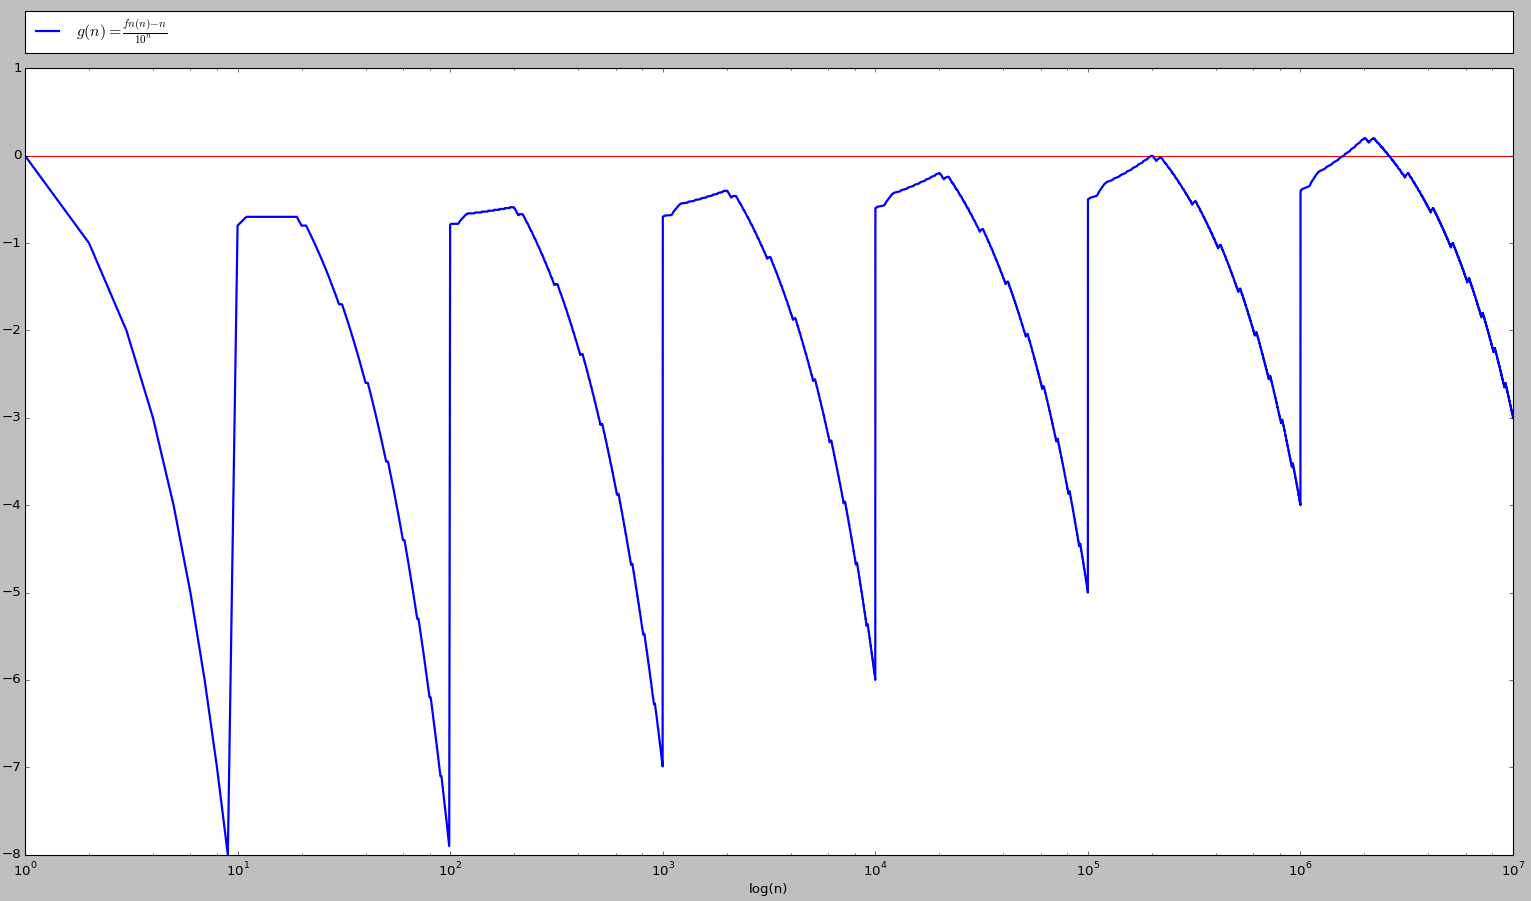
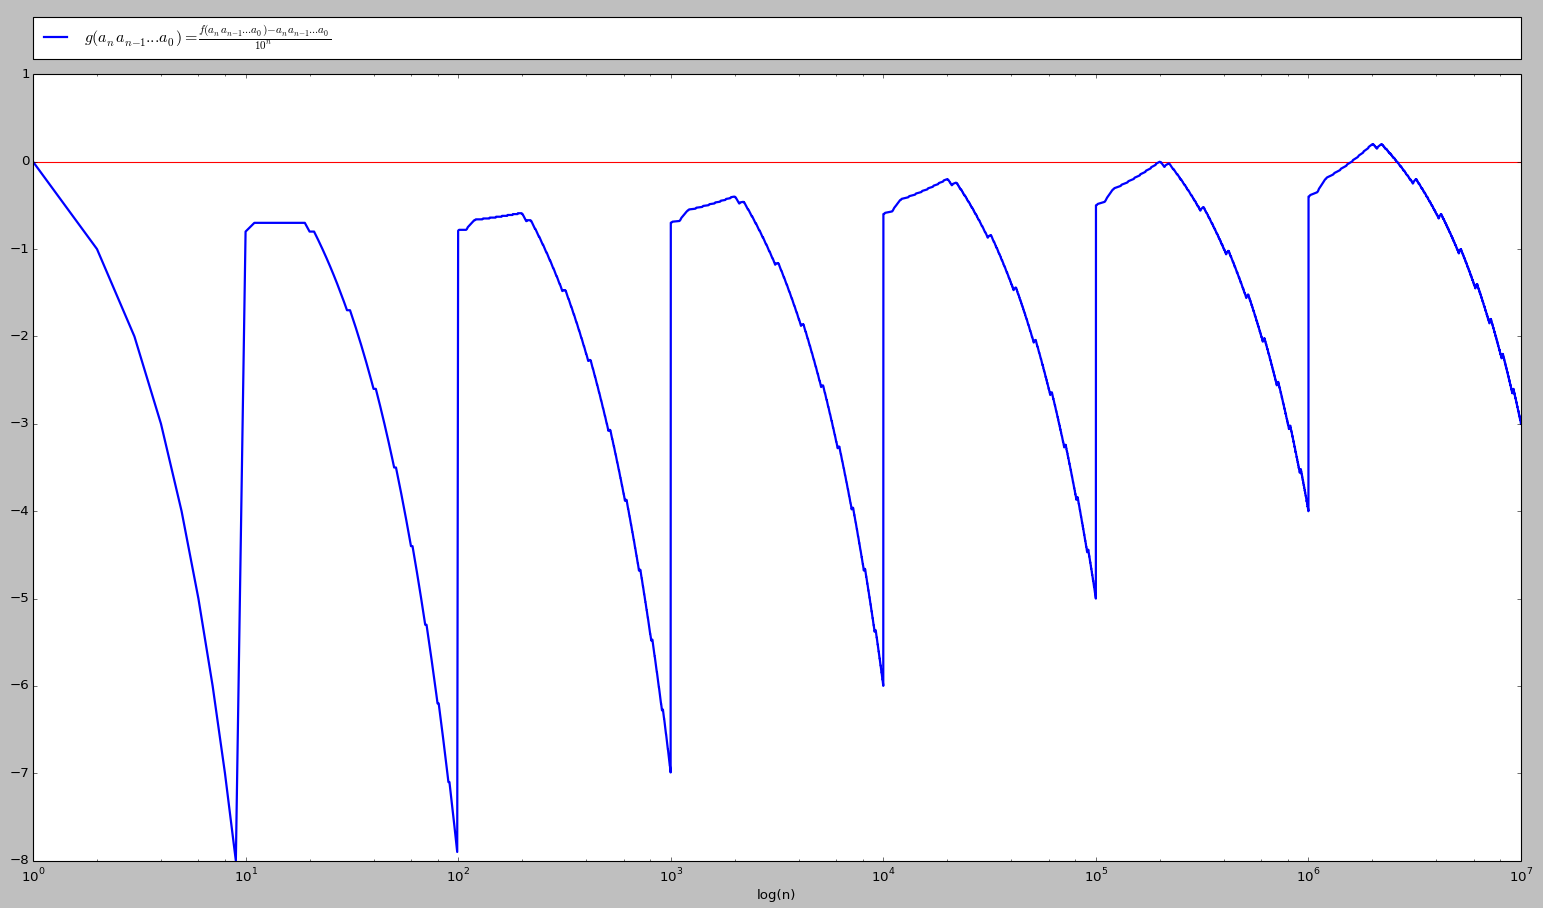
legend more correct

diff --git a/python/fnPlot.py b/python/fnPlot.py
@@ -29,7 +29,7 @@ fig = plt.figure()
 ax = fig.add_subplot(1,1,1)
 
 p1, = ax.plot([1,nbLimit] ,[0,0], 'r-')
-p2, = ax.plot(f(nbLimit), color='blue', lw=2, label = r'$g(a_na_{n-1}...a_0) = \frac{a_n * 10^n + a_{n-1} * 10^{n-1} + ... + a_0}{10^n}$')
+p2, = ax.plot(f(nbLimit), color='blue', lw=2, label = r'$g(a_na_{n-1}...a_0) = \frac{f(a_na_{n-1}...a_0) - a_na_{n-1}...a_0}{10^n}$')
 legend(bbox_to_anchor=(0., 1.02, 1., .102), loc=3, ncol=2, mode="expand", borderaxespad=0.)
 plt.xlabel('log(n)')
 

diff --git a/python/fnFinal.py b/python/fnFinal.py
@@ -162,3 +162,5 @@ def getLast(n):
 
 def test():
     print getLastInStep(9, 1)
+
+print getLast(2)
